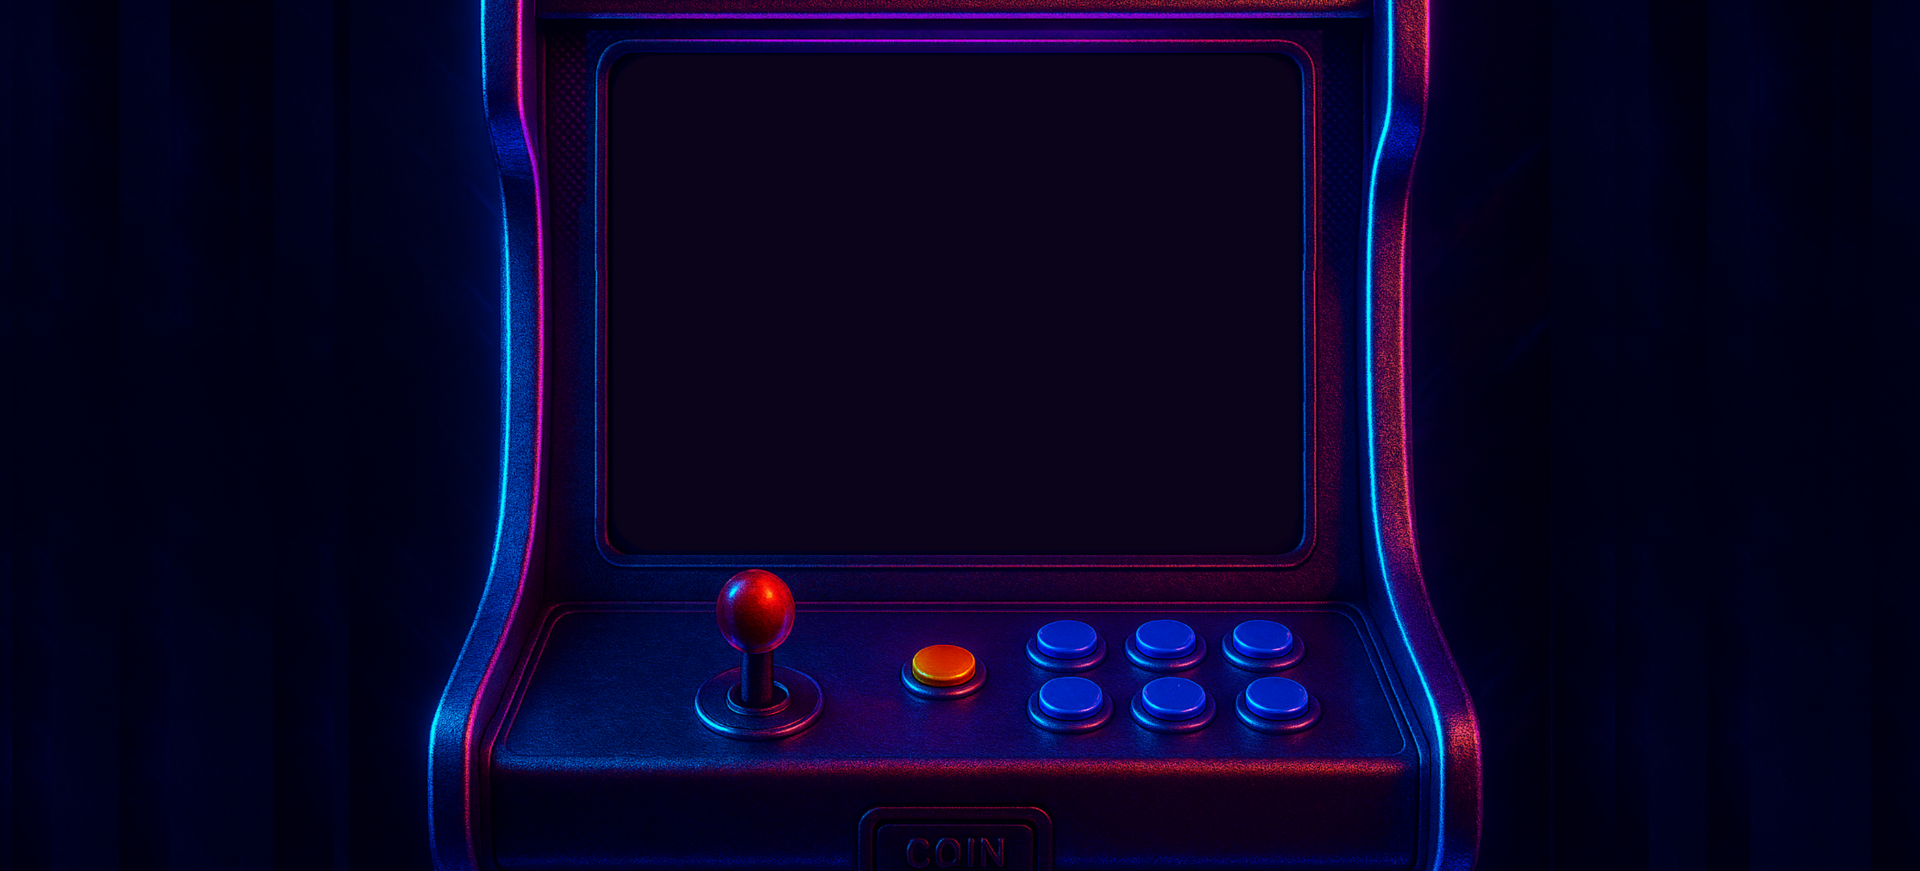
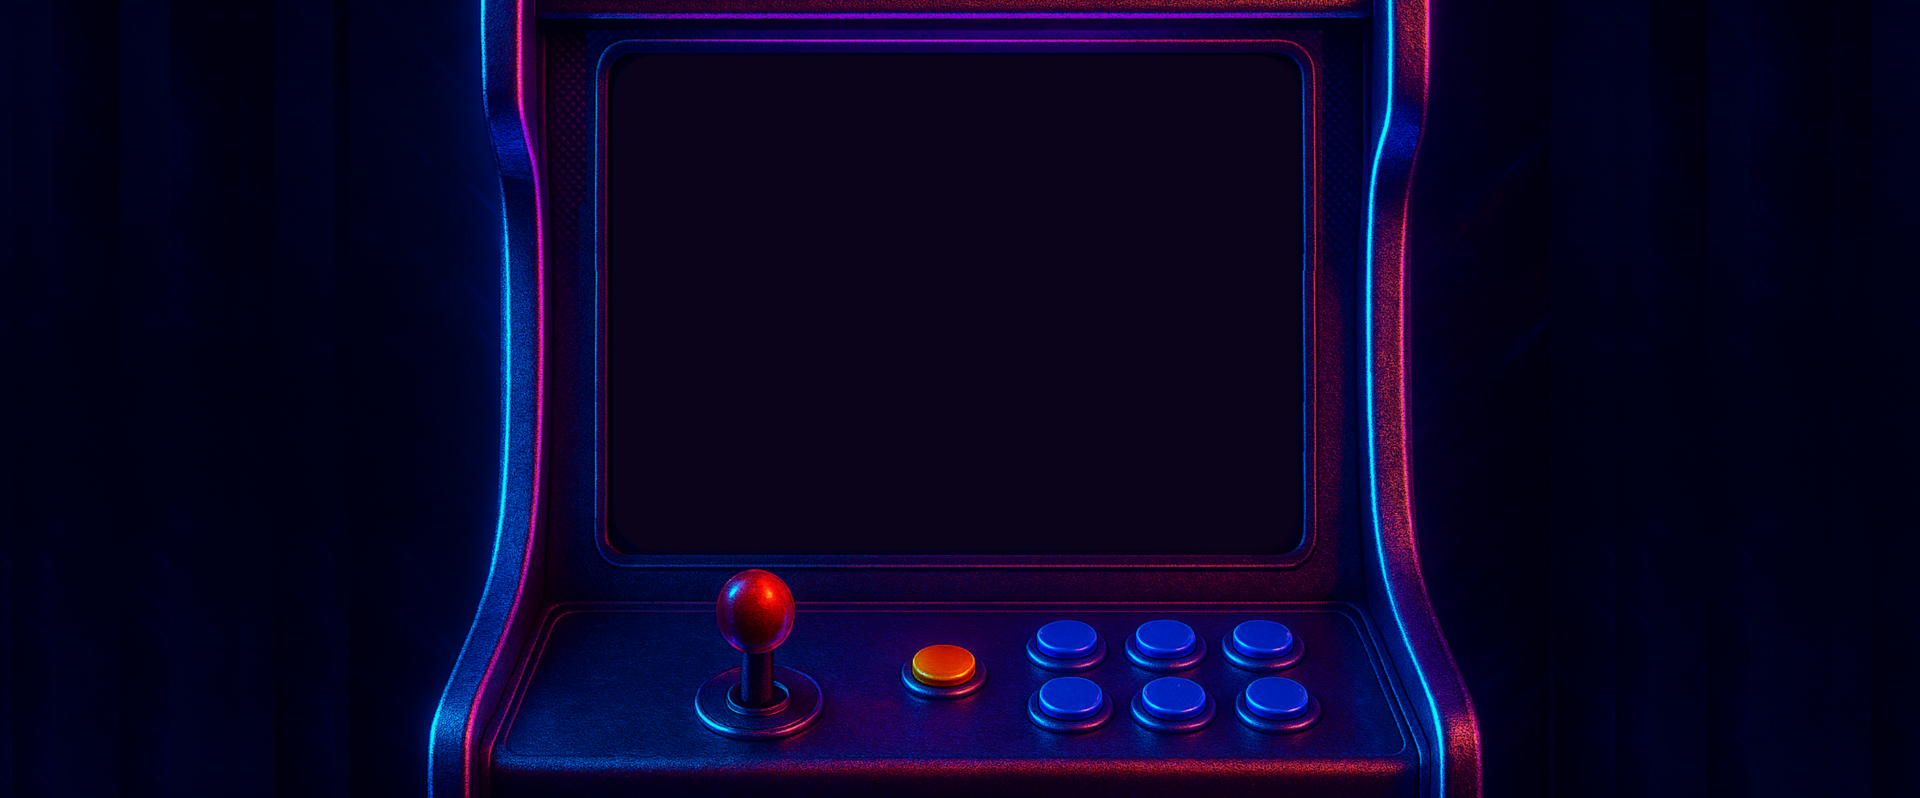
Edit background image and screen size to fit browser without scroll bars

Changed region(s): [[0.2188, 0.0, 0.7812, 1.0]]

diff --git a/docs/css/styles.css b/docs/css/styles.css
@@ -76,8 +76,8 @@ body {
 }
 
 .screenSize {
-    width: 1900px;
-    height: 1080px;
+    width: 1920px;
+    height: 911px;
     background-image: url('../img/arcade-background-blank-1080.png');
     background-size: cover;
     background-repeat: no-repeat;
